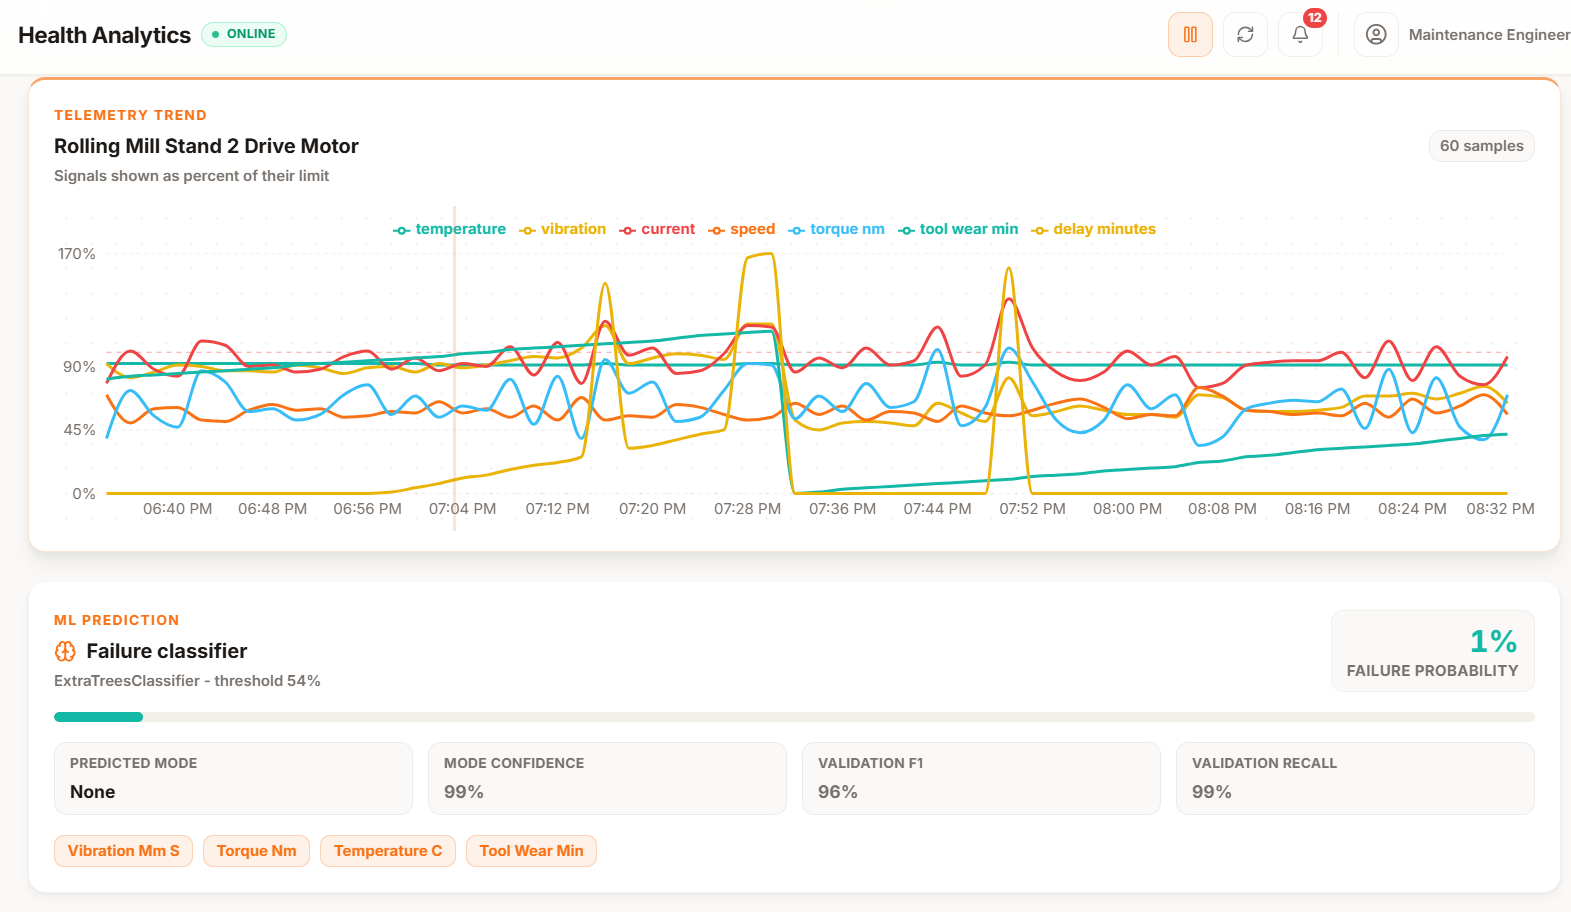
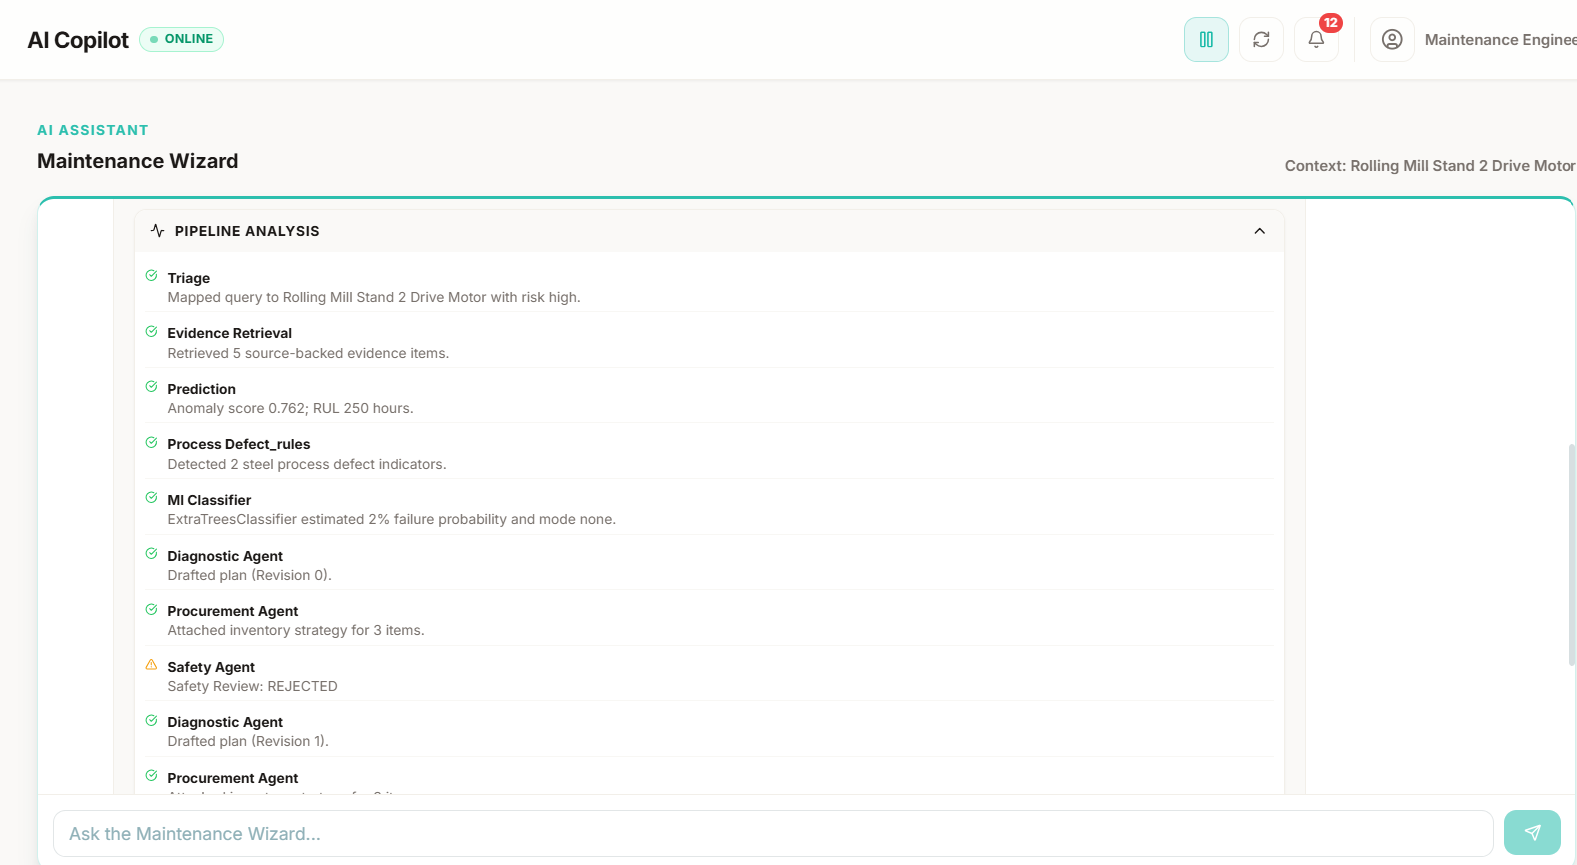
gsdf

diff --git a/README.md b/README.md
@@ -214,7 +214,7 @@ Maintainity AI features a **Triple-Redundant Cascade Engine**. The system automa
 
 The diagram below traces the complete lifecycle of a sensor reading — from initial stream ingestion through ML classification to final maintenance report delivery.
 
-![Data Flow and System Flow Diagram](docs/screenshots/data_flow_diagram.png)
+![Data Flow and System Flow Diagram](docs/screenshots/Data_Flow_Diagram.png.png)
 
 ### Detailed Flow Steps
 
@@ -838,7 +838,7 @@ An academic-depth blueprint illustrating multi-modal telemetry ingestion, hybrid
 ### Operations Dashboard
 The main dashboard delivers a plant-wide overview: real-time equipment health tiles, sensor trend visualisations, alert management, and AI-powered status indicators — all in one unified view.
 
-![Operations Dashboard — Plant summary, equipment health tiles, sensor trend charts, and alert management](docs/screenshots/dashboard,png.png)
+![Operations Dashboard — Plant summary, equipment health tiles, sensor trend charts, and alert management](docs/screenshots/Dashboard,png.png)
 
 ### AI Recommendation Panel
 The recommendation panel presents the complete AI-generated maintenance analysis — diagnosis, root causes, prioritised action checklist, cited evidence with relevance scores, and the full node-trace pipeline visualisation.
